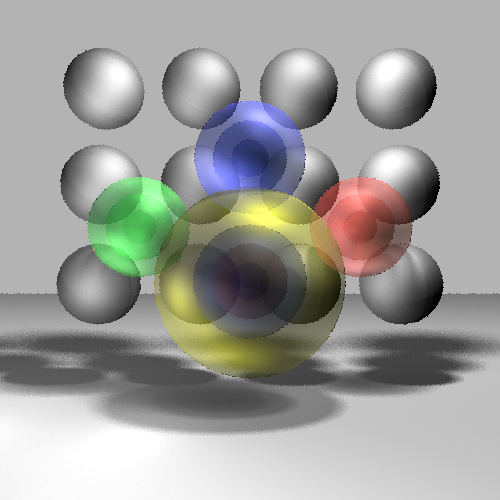
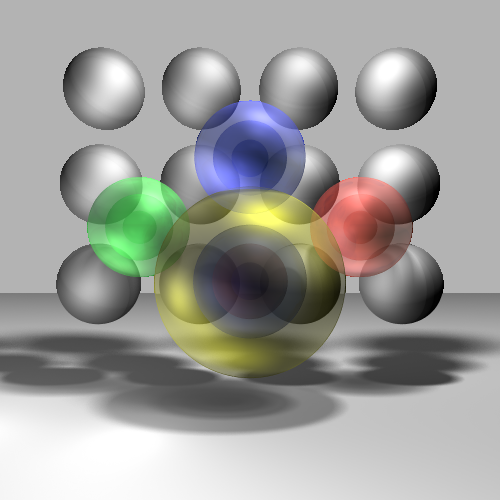
c

diff --git a/src/Objects/Light.java b/src/Objects/Light.java
@@ -77,21 +77,21 @@ public class Light {
 		
 		Ray R = surface.getReflectedRay(rayFromLight,point);
 
-		return (float) (surface.getMaterial().sr * Math.pow(rayFromViewer.getVector().dotProduct(R.getVector()), surface.getMaterial().getPhong())*this.getR()*specularIntensity);
+		return (float) (surface.getMaterial().sr * Math.pow(rayFromViewer.getVector().multiply(-1).dotProduct(R.getVector()), surface.getMaterial().getPhong())*this.getR()*specularIntensity);
 	}
 	
 	public float getSpecularColorG(Point point, Surface surface, Ray rayToLight, Ray rayFromLight, Ray rayFromViewer) 
 	{
 		Ray R = surface.getReflectedRay(rayFromLight,point);
 
-		return (float) (surface.getMaterial().sg * Math.pow(rayFromViewer.getVector().dotProduct(R.getVector()), surface.getMaterial().getPhong())*this.getG()*specularIntensity);
+		return (float) (surface.getMaterial().sg * Math.pow(rayFromViewer.getVector().multiply(-1).dotProduct(R.getVector()), surface.getMaterial().getPhong())*this.getG()*specularIntensity);
 	}
 	
 	public float getSpecularColorB(Point point, Surface surface, Ray rayToLight, Ray rayFromLight, Ray rayFromViewer) 
 	{
 		Ray R = surface.getReflectedRay(rayFromLight,point);
 
-		return (float) (surface.getMaterial().sb * Math.pow(rayFromViewer.getVector().dotProduct(R.getVector()), surface.getMaterial().getPhong())*this.getB()*specularIntensity);
+		return (float) (surface.getMaterial().sb * Math.pow(rayFromViewer.getVector().multiply(-1).dotProduct(R.getVector()), surface.getMaterial().getPhong())*this.getB()*specularIntensity);
 	}
 	
 	public float computeSoftShadowsCoef(Scene scene, Point point, Surface surface, Ray rayToLight)

diff --git a/src/Objects/Surface.java b/src/Objects/Surface.java
@@ -56,6 +56,13 @@ public abstract class Surface {
 			float Ir = (1-getMaterial().getTransparency())*(Math.abs(light.getDiffuseColorR(point, this, rayToLight)) +  Math.abs(light.getSpecularColorR(point, this, rayToLight, rayFromLight, ray)));
 			float Ig = (1-getMaterial().getTransparency())*(Math.abs(light.getDiffuseColorG(point, this, rayToLight)) +  Math.abs(light.getSpecularColorG(point, this, rayToLight, rayFromLight, ray)));
 			float Ib = (1-getMaterial().getTransparency())*(Math.abs(light.getDiffuseColorB(point, this, rayToLight)) +  Math.abs(light.getSpecularColorB(point, this, rayToLight, rayFromLight, ray)));
+			
+			//if(this instanceof Plane && this.getNormal(null).dotProduct(rayToLight.getVector()) < 0)
+			//{
+			//	Ir -= (1-getMaterial().getTransparency())*Math.abs(light.getSpecularColorR(point, this, rayToLight, rayFromLight, ray));
+			//	Ig -= (1-getMaterial().getTransparency())*Math.abs(light.getSpecularColorG(point, this, rayToLight, rayFromLight, ray));
+			//	Ib -= (1-getMaterial().getTransparency())*Math.abs(light.getSpecularColorB(point, this, rayToLight, rayFromLight, ray));
+			//}
 			float softShadows;
 
 			
